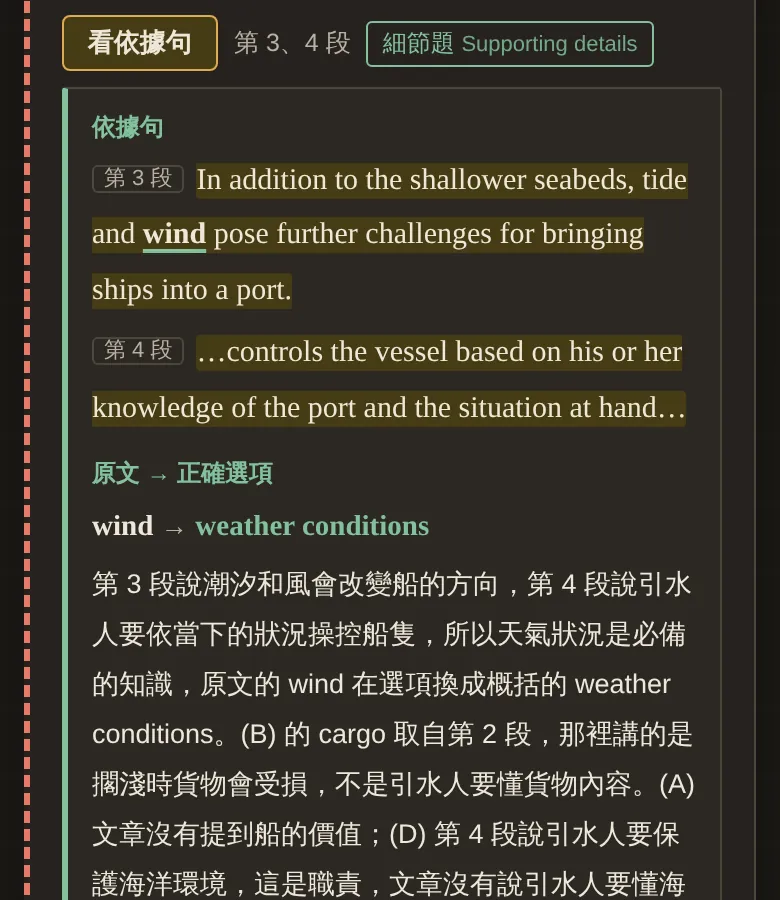
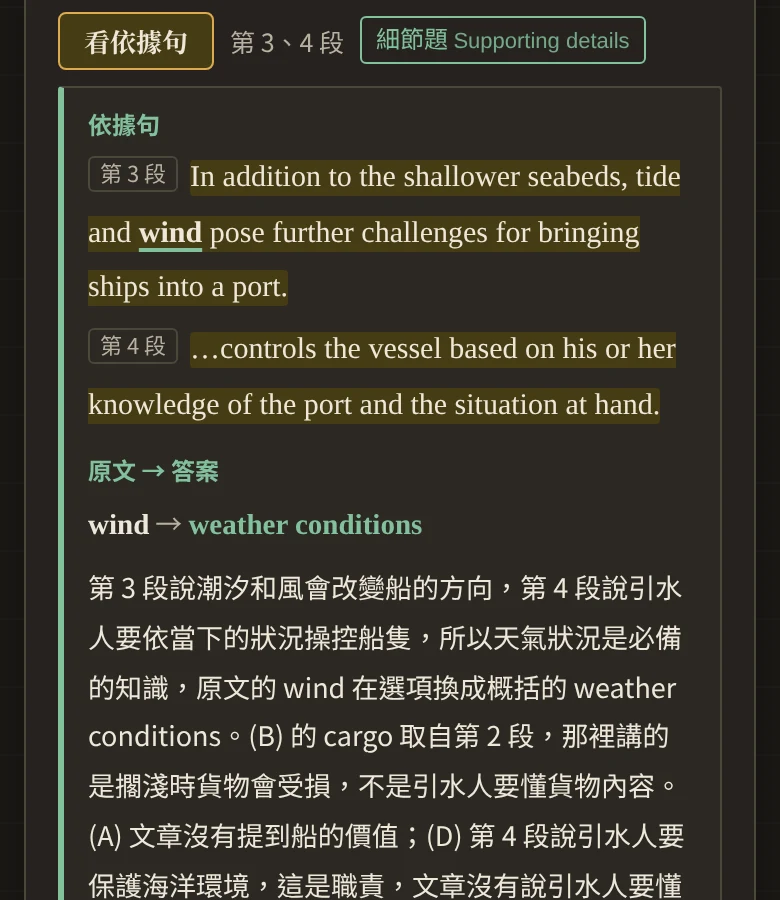
操作說明頁：閱讀測驗截圖與說明文字同步改為「答案」
閱讀測驗站已把「原文 → 正確選項」改為「原文 → 答案」，
重拍「看依據句」的淺色、深色截圖，圖片說明文字也一併改回「原文 → 答案」，圖文一致。

Claude-Session: https://claude.ai/code/session_01Uso9rsmeRmULqKiKycSnFG

Changed region(s): [[0.0308, 0.0, 0.8923, 1.0]]

diff --git a/howto.html b/howto.html
@@ -75,7 +75,7 @@ nav.toc a{border:1px solid var(--rule);border-radius:1rem;padding:.15rem .7rem;t
   <section class="step" id="reading_ev">
     <h2>答案依據句</h2>
     <p>閱讀測驗交卷後，每一題的解析裡會直接引出依據句；按每一題下方的「看依據句」，文章裡的依據句會用黃底標出；要讀完整篇才能判斷的題目，會寫「依據句：全文」。粗體加綠色底線的字詞，閱讀測驗標的是答案換了說法的原文字詞，混合題標的是最關鍵的字詞。混合題還可以按「在上方的文章裡看這一句」跳到原文位置。</p>
-    <figure><picture><source srcset="howto/reading_ev_dark.webp" media="screen and (prefers-color-scheme: dark)"><img src="howto/reading_ev_light.webp" alt="閱讀測驗交卷後，解析裡的依據句與「原文 → 正確選項」"></picture></figure>
+    <figure><picture><source srcset="howto/reading_ev_dark.webp" media="screen and (prefers-color-scheme: dark)"><img src="howto/reading_ev_light.webp" alt="閱讀測驗交卷後，解析裡的依據句與「原文 → 答案」"></picture></figure>
   </section>
   <section class="step" id="progress">
     <h2>進度的計算方式</h2>
